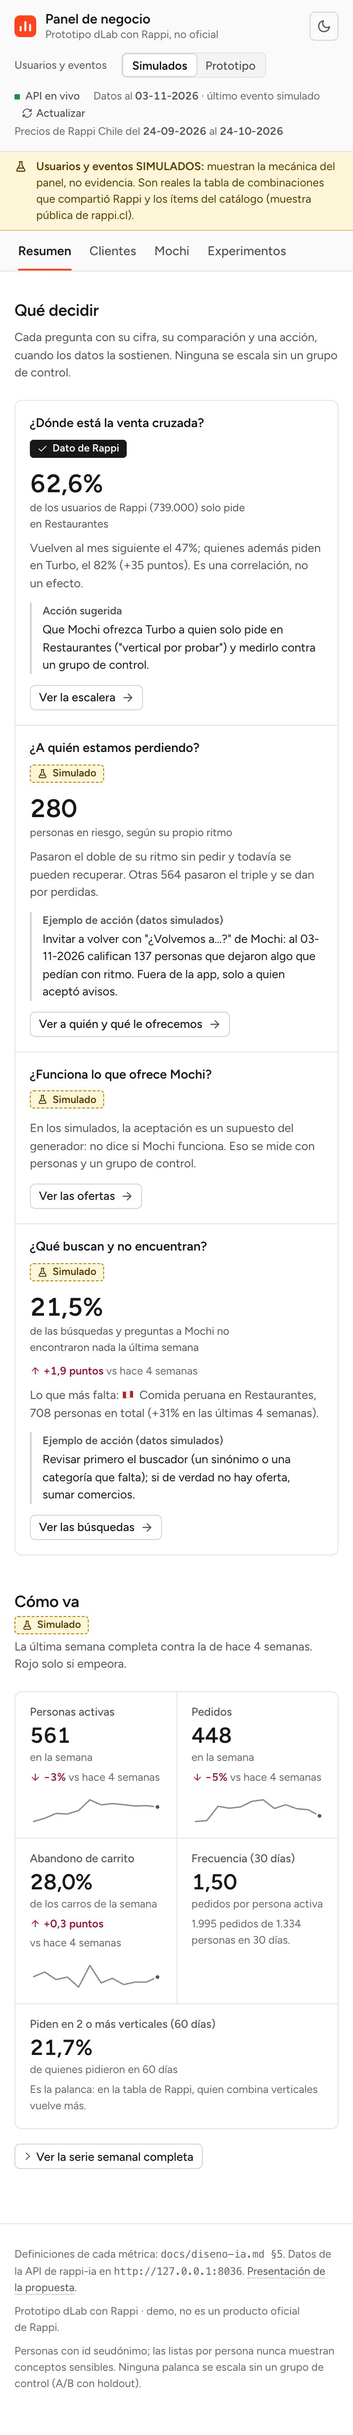
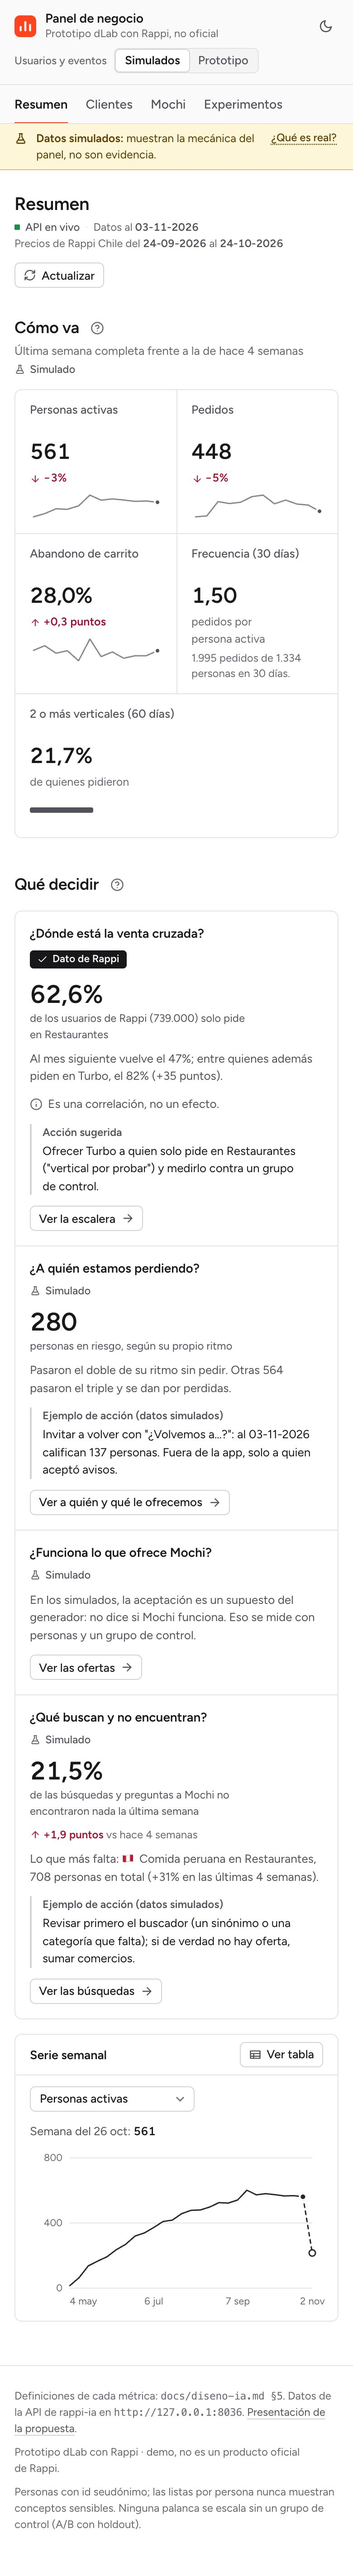
docs(panel): capturas, README y decisión de la segunda ronda
npm run screenshots captura cada vista y sus subpestañas (8 por ancho y
tema; los 5 nombres del README no cambian) y se regeneró contra una API
sobre rappi_staging, sin scroll horizontal. El README del panel explica
la barra lateral, la cabecera de página, las subpestañas (?seccion=),
la ayuda a demanda y los gráficos nuevos; docs/decisiones.md suma la
fila del 11-11-2026; instalacion, demo y diseno-ia dicen dónde quedó la
frase "uso del MVP, pocas personas: no es evidencia" (la franja).

El HTML suelto queda en 444 KB (meta: 445). make presentacion no se
corrió: falta la muestra de la app (prototipo-app/src/api/offline/
snapshot.json); los selectores nuevos del capítulo 9 del recorrido se
probaron contra el panel en el servidor de desarrollo.

diff --git a/dashboard-empresa/README.md b/dashboard-empresa/README.md
@@ -58,7 +58,7 @@ La URL de la API se cambia con `VITE_API_URL`, por ejemplo `VITE_API_URL=http://
 | `npm run format:check` | Revisa el formato con Prettier sin cambiar nada (lo que corre el CI); `npm run format` lo arregla |
 | `npm run build` | Build de producción en `dist/` |
 | `npm run fixtures` | Guarda en el repo las respuestas simuladas de la última foto de `npm run panel:snapshot`: las de `src/fixtures/sin-conexion/` (lo que se ve sin la API) y los ejemplos `*.synthetic.json` de los tests. Correrlo tras `make synth` o una actualización del catálogo, después de grabar la foto. El uso del prototipo no se guarda (lleva lo que hizo la gente). Los ejemplos de ofertas por momento, a quién invitar a volver, búsquedas sin resultado, combinaciones, motor y experimentos de `src/fixtures/` no pasan por aquí: los escribe `make contract` en `rappi-ia/` (con su simulación chica) y el CI falla si quedan desactualizados |
-| `npm run screenshots` | Regenera `docs/screenshots/` con el Chrome instalado y un Vite propio en el 5198 (con `VITE_API_URL`, contra otra API: las de este README se tomaron el 10-11-2026 contra una API sobre `rappi_staging`) |
+| `npm run screenshots` | Regenera `docs/screenshots/` con el Chrome instalado y un Vite propio en el 5198 (con `VITE_API_URL`, contra otra API: las de este README se tomaron el 11-11-2026 contra una API sobre `rappi_staging`) |
 | `npm run panel:snapshot` | Graba las respuestas que lee el panel (solo GET) desde una API sobre una copia de la base, en `snapshot/panel.json` (ignorada en git). La usan `npm run fixtures` y el [panel en un solo HTML](#panel-en-un-solo-html) |
 | `npm run panel:html` | Arma `dist-html/Panel de negocio (demo).html`: el panel con esas respuestas adentro, que abre con doble clic sin la API ni internet |
 | `npm run panel:snapshot:fixtures` | Arma `snapshot/panel.json` desde los ejemplos de `src/fixtures/` (sin API), para probar `npm run panel:html` (lo hace el CI). No pisa una foto grabada |
@@ -67,9 +67,11 @@ Tests: las cifras vigentes están en [README.md#resultados](../README.md#resulta
 
 ## Vistas
 
-Arriba se elige la fuente de usuarios y eventos: **Simulados** o **Prototipo** (lo hecho en `prototipo-app`). La barra de arriba dice además de dónde salen los datos que se ven ("API en vivo", "Datos guardados", "API sin conexión" o "Foto grabada"), la fecha de corte y "Actualizar"; debajo, la franja de procedencia (simulados o prototipo) queda fija al bajar. Desde 1200 px las vistas van en una navegación lateral, con "En esta vista" para saltar a cada sección; más angosto, en una tira fija arriba. La vista y la fuente quedan en la URL (`?vista=clientes&fuente=prototipo`), así que un enlace abre exactamente lo mismo; una vista que no existe abre el Resumen. Ningún pedido cancelado cuenta en las cifras (migración 051). El encabezado dice de qué fecha son los precios ("Precios de Rappi Chile del … al …", el `catalogo` de `/catalog/home`; en el panel en un solo HTML, el de su foto); sin la API no lo muestra, porque los datos guardados no son del catálogo.
+Desde 1200 px, la barra lateral lleva la marca y el tema, la fuente de usuarios y eventos (**Simulados** o **Prototipo**, lo hecho en `prototipo-app`) y las cuatro vistas; más angosto, la marca y la fuente van arriba y las vistas en una tira fija. Sobre el contenido, una franja de una línea dice la fuente elegida y que no es evidencia, queda fija al bajar y explica a demanda qué es real ("¿Qué es real?"). Cada página tiene su título, de dónde salen los datos que se ven ("API en vivo", "Datos guardados", "API sin conexión" o "Foto grabada"), la fecha de corte y "Actualizar" y, si la vista tiene varias, sus subpestañas (una pregunta por pantalla). La vista, la fuente y la subpestaña quedan en la URL (`?vista=clientes&fuente=prototipo&seccion=pro`; la primera subpestaña no se escribe), así que un enlace abre exactamente lo mismo; una vista o subpestaña que no existe abre la primera. Las definiciones van a demanda (el botón ⓘ junto a cada título, que se cierra con Escape o al tocar fuera); lo que siempre se ve es la cifra, su unidad y su salvedad en una línea. Ningún pedido cancelado cuenta en las cifras (migración 051). El encabezado dice de qué fecha son los precios ("Precios de Rappi Chile del … al …", el `catalogo` de `/catalog/home`; en el panel en un solo HTML, el de su foto); sin la API no lo muestra, porque los datos guardados no son del catálogo.
 
 ### 1. Resumen
+
+Sin subpestañas: primero cómo va, después qué decidir, con la serie semanal al lado.
 
 **Qué decidir:** las cuatro preguntas como una lista, una fila por pregunta. Cada una trae su procedencia, la cifra que se mira primero, su contexto (una comparación o la tendencia de 4 semanas), una acción sugerida que sale de los datos y el enlace a su detalle:
 
@@ -79,36 +81,36 @@ Arriba se elige la fuente de usuarios y eventos: **Simulados** o **Prototipo** (
 - Con la fuente del prototipo la acción se llama "Para revisar en el MVP": esos datos no son evidencia.
 - **Búsquedas:** el % sin resultado de la última semana contra 4 semanas antes y lo que más falta. Acción: la que da la API para esa demanda; si es "sumar comercios", primero revisar el buscador (un sinónimo o una categoría que falta).
 
-**Cómo va:** cinco indicadores en una tira. Personas activas, pedidos y abandono de carrito con su cambio contra 4 semanas antes y la tendencia de 12 semanas (la línea aparece desde 5 semanas completas); frecuencia (30 días) y el % que pide en 2 o más verticales (60 días), con lo que los explica. La serie semanal completa queda a un clic. Las diferencias de tasas van en "puntos" (puntos porcentuales).
+**Cómo va:** cinco indicadores en una tira de igual altura. Personas activas, pedidos y abandono de carrito con su cambio contra 4 semanas antes y la tendencia de 12 semanas (la línea aparece desde 5 semanas completas); frecuencia (30 días) y el % que pide en 2 o más verticales (60 días), con lo que los explica. **Serie semanal:** las 27 semanas en una línea, un indicador a la vez (Personas activas, Pedidos, Abandono de carrito o Búsquedas sin resultado), con la semana parcial punteada; *Ver tabla* muestra la serie completa. Las diferencias de tasas van en "puntos" (puntos porcentuales).
 
-![Resumen: qué decidir y cómo va](docs/screenshots/1-resumen-escritorio-claro.jpg)
+![Resumen: cómo va, la serie semanal y qué decidir](docs/screenshots/1-resumen-escritorio-claro.jpg)
 
 *Datos simulados, salvo la tarjeta de venta cruzada (dato de Rappi): muestran la mecánica, no evidencia.*
 
 ### 2. Retención y venta cruzada
 
-Para la gerencia.
+Para la gerencia. Tres subpestañas: Venta cruzada (`seccion` sin valor), Pro y sin Pro (`pro`) y En riesgo (`perdiendo`).
 
-- **Dónde está la venta cruzada:** la tabla de Rappi como gráfico de pesas. Cada fila es una combinación (Solo Restaurantes, Restaurantes + Turbo…), con la parte de los usuarios que está ahí, cuántos vuelven al mes siguiente, cuántos vuelven entre quienes además usan el grupo siguiente que más retiene, la diferencia en puntos y los pedidos por usuario de una y otra. *Ver tabla* muestra la tabla completa de Rappi con su total. Es una correlación, no un efecto: quien pide mucho usa más verticales y además vuelve más.
-- **Pro y sin Pro** (desde el 26-10): las personas con pedidos de cada grupo (`app_users.pro`, de `/analytics/pro`): pedidos de 30 días y por persona, cuántas volvieron a comprar, cuántas combinan verticales (60 días) y la retención de los días 61 a 120; un grupo con menos de 20 personas no se muestra. Es una comparación, no un efecto, y en los simulados la marca Pro es un supuesto del generador que sigue a su combinación de verticales: el panel lo dice. En la foto sin conexión (04-11) están los dos grupos, Pro (887 personas con pedidos) y sin Pro (1.404), todos simulados.
+- **Dónde está la venta cruzada:** las cifras de toda la tabla de Rappi (usuarios, cuántos vuelven al mes siguiente y pedidos por usuario) y la tabla como gráfico de pesas. Cada fila es una combinación (Solo Restaurantes, Restaurantes + Turbo…), con la parte de los usuarios que está ahí, cuántos vuelven al mes siguiente, cuántos vuelven entre quienes además usan el grupo siguiente que más retiene, la diferencia en puntos y los pedidos por usuario de una y otra. *Ver tabla* muestra la tabla completa de Rappi con su total. Debajo, barras con el % de los usuarios y el % de los pedidos de cada combinación. Es una correlación, no un efecto: quien pide mucho usa más verticales y además vuelve más.
+- **Pro y sin Pro** (desde el 26-10): las personas con pedidos de cada grupo (`app_users.pro`, de `/analytics/pro`): pedidos de 30 días y por persona, cuántas volvieron a comprar, cuántas combinan verticales (60 días) y la retención de los días 61 a 120; un grupo con menos de 20 personas no se muestra. Cuatro facetas de barras (cada una con su escala desde 0) y su tabla. Es una comparación, no un efecto, y en los simulados la marca Pro es un supuesto del generador que sigue a su combinación de verticales: el panel lo dice. En la foto sin conexión (04-11) están los dos grupos, Pro (887 personas con pedidos) y sin Pro (1.404), todos simulados.
 - **A quién estamos perdiendo:** en riesgo (el doble de su ritmo sin pedir, mínimo 21 días), perdidas (el triple, mínimo 45), cuántas califican para "¿Volvemos a…?" (por un concepto o por una vertical que dejaron) y a cuántas les toca "¿Repetimos?". Debajo, las personas que entrega la API (hasta 100, primero las en riesgo más atrasadas) agrupadas por lo que más pedían, con cuántas aceptan avisos; la lista con id seudónimo queda a un clic. El concepto top nunca es sensible.
 
-![Retención y venta cruzada: la escalera de Rappi y a quién estamos perdiendo](docs/screenshots/2-clientes-escritorio-claro.jpg)
+![Retención y venta cruzada, subpestaña Venta cruzada: las cifras de la tabla de Rappi, la escalera y las barras de usuarios y pedidos](docs/screenshots/2-clientes-escritorio-claro.jpg)
 
-*La escalera es el dato de Rappi; lo demás, simulado.*
+*Venta cruzada es toda dato de Rappi; Pro y sin Pro y En riesgo, simulados.*
 
 ### 3. Mochi y búsquedas
 
-Para RappiAds.
+Para RappiAds. Tres subpestañas: Ofertas (`seccion` sin valor, con "¿Mochi molesta?" debajo), Listas y embudo (`listas`) y Búsquedas (`busquedas`).
 
-- **Lo que ofrece Mochi:** ofertas mostradas, la tasa de aceptación y cuánto de lo aceptado entre verticales llega a pedido. Debajo, a todo el ancho, las **ofertas por momento**, cada una con una línea que dice dónde se hace (en un plan, con el carro armado, antes de pagar, para el próximo pedido, cuando una búsqueda no encontró nada, para probar otro vertical, en la recompra, al volver a pedir, en un perfil de gusto, mientras llega otro pedido (OnTop de Turbo), al preguntarle o en "Para ti") y, por momento, las rechazadas ("Ahora no" en el Carro; "Después" en Vertical por probar, Recompra y Volver a pedir; "—" en los momentos sin ese botón; la oferta que se fue sola del globo no es un rechazo), las abiertas (la vertical abierta desde el botón de la oferta, "Ver …" o "Abrir …", en Carro, Vertical por probar, Sin resultado y Perfil de gusto: no es una aceptación) y los "¿Por qué?" abiertos; lado a lado, las **sugerencias entre verticales** que más se muestran ("212 de 944" aceptadas, la tasa y cuántas llegaron a pedido; incluyen lo que la persona pidió al preguntarle, y Mochi no propone alcohol por su cuenta), los **servicios sin catálogo** (RappiTravel y RappiFavor: ofrecidos, abiertos y el gancho del catálogo aceptado), y a todo el ancho **el motor contra una regla simple** (próximo vertical contra el orden fijo, compra cruzada contra lo más pedido y el paso de la escalera contra la vertical que más se suma, en el tramo de prueba de su evaluación por fechas). Los pedidos que Mochi hizo solo, con el permiso de "Pedir por mí", van en una línea aparte: no son ofertas aceptadas. Aceptada: la oferta se agregó al carro (también en la recompra, aunque su botón sea "Ver producto"). La tasa aparece desde 10 mostradas, o desde 10 aceptadas para lo que llega a pedido; antes, solo las cuentas. El simulador no guarda el momento de la oferta: con los simulados el panel lo dice en una caja en su lugar.
+- **Lo que ofrece Mochi:** ofertas mostradas, la tasa de aceptación y cuánto de lo aceptado entre verticales llega a pedido. Debajo, a todo el ancho, las **ofertas por momento**, cada una con una línea que dice dónde se hace (en un plan, con el carro armado, antes de pagar, para el próximo pedido, cuando una búsqueda no encontró nada, para probar otro vertical, en la recompra, al volver a pedir, en un perfil de gusto, mientras llega otro pedido (OnTop de Turbo), al preguntarle o en "Para ti") y, por momento, las rechazadas ("Ahora no" en el Carro; "Después" en Vertical por probar, Recompra y Volver a pedir; "—" en los momentos sin ese botón; la oferta que se fue sola del globo no es un rechazo), las abiertas (la vertical abierta desde el botón de la oferta, "Ver …" o "Abrir …", en Carro, Vertical por probar, Sin resultado y Perfil de gusto: no es una aceptación) y los "¿Por qué?" abiertos; lado a lado, las **sugerencias entre verticales** que más se muestran ("212 de 944" aceptadas, la tasa y cuántas llegaron a pedido; incluyen lo que la persona pidió al preguntarle, y Mochi no propone alcohol por su cuenta), los **servicios sin catálogo** (RappiTravel y RappiFavor: ofrecidos, abiertos y el gancho del catálogo aceptado), y a todo el ancho **el motor contra una regla simple** (próximo vertical contra el orden fijo, compra cruzada contra lo más pedido y el paso de la escalera contra la vertical que más se suma, en el tramo de prueba de su evaluación por fechas). Los pedidos que Mochi hizo solo, con el permiso de "Pedir por mí", van en una línea aparte: no son ofertas aceptadas. Aceptada: la oferta se agregó al carro (también en la recompra, aunque su botón sea "Ver producto"). La tasa aparece desde 10 mostradas, o desde 10 aceptadas para lo que llega a pedido; antes, solo las cuentas. El simulador no guarda el momento de la oferta: con los simulados el panel lo dice en una línea en su lugar.
 - **¿Mochi molesta?** (`/analytics/presencia`, últimos 30 días, como las personas activas del Resumen): cuántas personas activas tienen a Mochi oculto (su último cambio, `agent_visibility`, fue ocultarlo) y qué % son, cuántas veces lo ocultaron, cuántas lo trajeron de vuelta en Cuenta y cuántas veces explicó por qué movió los accesos de la Home (`vertical_reorder_shown`), a cuántas personas. Si muchas lo ocultan, Mochi molesta: hay que revisar cada cuánto habla y propone. La app no anota "¿Por qué?" ni "Entendido" del globo, así que no se cuentan. El simulador no genera estos eventos: con los simulados, un estado vacío que lo dice.
-- **Qué se ve y qué se toca:** de lo que cada lista de la app dejó a la vista (al menos la mitad en pantalla), el CTR por posición (`/analytics/ctr-posicion`) y el embudo por sesión: vio una lista → tocó algo → agregó al carro → pidió (`/analytics/embudo-sesion`). El primer lugar se toca más también por estar primero: es el sesgo que hay que descontar antes de comparar órdenes. Sale de las impresiones registradas (migraciones 047 y 048): sin ellas, la tabla queda vacía.
+- **Qué se ve y qué se toca:** de lo que cada lista de la app dejó a la vista (al menos la mitad en pantalla), el CTR por posición (`/analytics/ctr-posicion`) y el embudo por sesión: vio una lista → tocó algo → agregó al carro → pidió (`/analytics/embudo-sesion`), los dos en barras con su tabla. El primer lugar se toca más también por estar primero: es el sesgo que hay que descontar antes de comparar órdenes. Sale de las impresiones registradas (migraciones 047 y 048): sin ellas, la tabla queda vacía.
 - **Qué buscan y no encuentran:** la demanda no satisfecha agrupada por concepto y vertical (5 o más personas), con su crecimiento, dónde existe y la acción sugerida; si ninguna llega a ese mínimo (lo normal con el prototipo), las búsquedas sin resultado por vertical y concepto, nunca con el texto que escribió cada persona. Junto a las cuentas, el **abandono de búsqueda** (`abandono` en `/analytics/unmet`): las búsquedas que no terminaron en ningún toque ni en otra búsqueda con toque en 2 minutos, con cuántas se salvaron al reformularlas; el % aparece desde 10 búsquedas. Al lado, **lo que sube** (señales de interés, 4 semanas contra las 4 anteriores, con "sin oferta" si además es demanda no satisfecha) y **poco surtido** (más personas buscando que ítems en la muestra pública).
 
-`make mvp-check` abre esta vista con la fuente del prototipo (puerto 5185) y comprueba que "Ofertas del agente por momento" muestra lo que dejaron las revisiones anteriores (qué revisa, en [docs/instalacion.md](../docs/instalacion.md#5-el-mvp)).
+`make mvp-check` abre esta vista (la subpestaña Ofertas) con la fuente del prototipo (puerto 5185) y comprueba que "Ofertas del agente por momento" muestra lo que dejaron las revisiones anteriores (qué revisa, en [docs/instalacion.md](../docs/instalacion.md#5-el-mvp)).
 
-![Mochi y búsquedas: ofertas por momento, sugerencias entre verticales, servicios, motor y demanda no satisfecha](docs/screenshots/3-mochi-escritorio-claro.jpg)
+![Mochi y búsquedas, subpestaña Ofertas: las cifras, sugerencias entre verticales, servicios, el motor y si Mochi molesta](docs/screenshots/3-mochi-escritorio-claro.jpg)
 
 *Datos simulados: muestran la mecánica, no evidencia.*
 
@@ -125,7 +127,7 @@ Todas las vistas tienen versión móvil (sin scroll horizontal; las tablas pasan
 
 <p>
   <img src="docs/screenshots/1-resumen-movil-claro.jpg" alt="Resumen en móvil" width="260" />
-  <img src="docs/screenshots/2-clientes-escritorio-oscuro.jpg" alt="Retención y venta cruzada en tema oscuro" width="520" />
+  <img src="docs/screenshots/2-clientes-escritorio-oscuro.jpg" alt="Retención y venta cruzada (Venta cruzada) en tema oscuro" width="520" />
 </p>
 
 *Resumen en móvil y Retención y venta cruzada en tema oscuro.*
@@ -149,27 +151,27 @@ PANEL_HTML_COPY="$HOME/Desktop/Panel de negocio (demo).html" npm run panel:html
 
 Se ve todo lo del panel con las dos fuentes, los rótulos de procedencia de siempre y un aviso fijo "Foto sin conexión" con la fecha y la base de donde salió. Una foto grabada antes del 31-10 no trae los experimentos: la pestaña lo dice hasta la próxima `npm run panel:snapshot`.
 
-**"Ver cómo funciona".** Un botón abajo a la derecha abre un recorrido corto de una persona nueva en el prototipo: Mochi le ofrece el kit "Carrete" (momento "Plan"), lo acepta, paga el pedido, busca algo que no hay y oculta a Mochi. Cada paso suma ese evento a las respuestas grabadas de la fuente del prototipo, en memoria (`src/demo/tour.js`), y lleva a la sección que cambia: "Plan" suma una mostrada y después una aceptada, la frecuencia de 30 días cuenta el pedido, "Qué buscan y no encuentran" suma una búsqueda sin resultado y "¿Mochi molesta?" suma una persona que lo ocultó. La tarjeta dice siempre "Demostración: eventos de ejemplo sobre la foto grabada, no son datos reales", y al cerrarla todo vuelve a la foto. Mientras dura, cada sección del prototipo dice además "con eventos de ejemplo de la demostración: no son datos reales". Solo entra en este armado (se decide por el modo `panel-html`, como `VITE_OFFLINE_DEMO` en la app): el panel con la API no la trae. Escape la cierra.
+**"Ver cómo funciona".** Un botón abajo a la derecha abre un recorrido corto de una persona nueva en el prototipo: Mochi le ofrece el kit "Carrete" (momento "Plan"), lo acepta, paga el pedido, busca algo que no hay y oculta a Mochi. Cada paso suma ese evento a las respuestas grabadas de la fuente del prototipo, en memoria (`src/demo/tour.js`), y lleva a la sección que cambia: "Plan" suma una mostrada y después una aceptada, la frecuencia de 30 días cuenta el pedido, "Qué buscan y no encuentran" suma una búsqueda sin resultado y "¿Mochi molesta?" suma una persona que lo ocultó. La tarjeta dice siempre "Demostración: eventos de ejemplo sobre la foto grabada, no son datos reales", y al cerrarla todo vuelve a la foto. Mientras dura, la franja suma la fila "Demostración: las cifras traen eventos de ejemplo, no son datos reales." y cada sección del prototipo dice además "con eventos de ejemplo de la demostración: no son datos reales". Solo entra en este armado (se decide por el modo `panel-html`, como `VITE_OFFLINE_DEMO` en la app): el panel con la API no la trae. Escape la cierra.
 
 No se puede: actualizar (no hay API; el botón no aparece), ver la presentación de la propuesta (no viaja en el archivo) ni ver nada más nuevo que la foto.
 
 ## Cómo se lee
 
 - **Cada número con su contexto.** Una comparación (la combinación siguiente, las perdidas, la regla simple), la tendencia de 4 semanas o lo que lo explica. Las tasas aparecen desde 10 casos en su denominador; antes, solo las cuentas. Rojo solo para lo que empeora y verde para lo que mejora, siempre con flecha y texto; la demanda que crece va en gris, porque no es un resultado bueno ni malo.
-- **Color con significado.** El naranja Rappi para magnitud y para lo que se propone; el gris para el contexto (en la escalera, la retención de hoy), con contraste de 3:1 con el fondo y separable del naranja con daltonismo; el ámbar rayado marca lo simulado.
-- **Todo valor se puede leer sin el gráfico.** La escalera tiene su tabla (*Ver tabla*) y su descripción para lectores de pantalla; la serie semanal, su tabla.
-- **Accesibilidad.** Pestañas accesibles (← → y ↑ ↓, Inicio y Fin; en el teléfono, con nombres cortos: Resumen, Clientes, Mochi y Experimentos); los enlaces del Resumen y los de "En esta vista" llevan el foco al título de la sección; bajo 900 px las tablas pasan a tarjetas; respeto de `prefers-reduced-motion`.
+- **Color con significado.** El naranja Rappi, racionado: la marca, la vista activa y el punto "después" de la escalera. Las barras y la línea de los gráficos van en dos grises (3:1 o más con el fondo y entre sí, en los dos temas); el ámbar es solo la franja de lo simulado. Lo simulado y lo del prototipo llevan un rótulo gris en su sección; "Dato de Rappi" va sólido, así lo real es lo único que resalta.
+- **Todo valor se puede leer sin el gráfico.** Cada gráfico tiene su tabla (*Ver tabla*): la de la serie semanal, las barras y las facetas está siempre en el DOM para el lector de pantalla; la escalera, su descripción por fila.
+- **Accesibilidad.** Pestañas accesibles (← → y ↑ ↓, Inicio y Fin; en el teléfono, con nombres cortos: Resumen, Clientes, Mochi y Experimentos); las subpestañas son botones con `aria-current` (el foco queda en el botón); los enlaces del Resumen abren la subpestaña y llevan el foco al título de la sección; las ayudas se abren con Enter y se cierran con Escape; bajo 900 px las tablas pasan a tarjetas; respeto de `prefers-reduced-motion`.
 
 ## Estructura
 
 ```text
 src/
-├── App.jsx                 pestañas, fuente, aviso de procedencia, enlaces a una sección
+├── App.jsx                 vistas y subpestañas, fuente, franja de procedencia, enlaces a una sección
 ├── presentacion.js         página de presentación de la propuesta (con presentacion.html y public/presentacion/)
 ├── lib/                    api.js (API, respaldo y foto), metrics.js (lo que lee el panel), agentName.js (el nombre visible del agente), format.js (es-CL), labels.js, hooks
-├── components/             tabla, panel, insignias, cifras, estados vacío/carga/error
-│   ├── charts/             chispa de tendencia (SVG propio, sin librerías)
-│   └── shell/              encabezado, selector de fuente, tema, pestañas y "En esta vista"
+├── components/             tabla, panel, ayuda (Help), salvedad (Caveat), insignias, cifras, estados vacío/carga/error
+│   ├── charts/             chispa, LineChart (serie semanal) y BarRows (barras), sin librerías
+│   └── shell/              marca, cabecera de página, selector de fuente, tema, vistas y subpestañas
 ├── views/
 │   ├── overview/           Resumen: las 4 decisiones (decisions.js) y cómo va (weekly.js)
 │   ├── customers/          Retención y venta cruzada: la escalera (ladder.js) y el rescate (audiences.js)

diff --git a/docs/decisiones.md b/docs/decisiones.md
@@ -251,6 +251,7 @@ Resumen de lo que rige hoy (05-11-2026); el detalle y el porqué están en las f
 | 05-11-2026 | **λ de la compra cruzada solo sube de 0 si gana al menos 5 aciertos en validación** (`LAMBDA_MIN_GAIN_HITS` en `motor/evaluate.py`): `rappi-ia motor` cuenta los aciertos de la mezcla con cada λ de la grilla y uno mayor reemplaza al elegido solo si lo supera en 5 o más; en un empate o casi empate queda el menor. Con los simulados del 04-11 (503 personas en validación, 1.509 recomendaciones), λ 0 y 0,5 aciertan 201 y λ 1, 2 y 4, 203: λ pasa de 1 a 0. | Antes ganaba cualquier mejora: 2 aciertos de 1.509 (precisión@3 0,1332 contra 0,1345) encendían la variante "Para tu pedido de …", que solo sale con λ > 0, así que la oferta de la demo cambiaba por ruido. Costo: esa variante aparece menos; con los simulados actuales no aparece y sale "Lo más pedido en …". |
 | 05-11-2026 | **El panel no pinta una diferencia que no es concluyente** (`dashboard-empresa/src/views/mochi/`: `motor.js` y `MotorCheck.jsx`; `motor/evaluate.py`: `_step`; sin migración). El paso de la escalera informa `solo_paso`, `solo_base` y `p_mcnemar` (McNemar exacto bilateral, en el tramo de prueba; no en validación, donde se eligen los pesos). En "El motor contra una regla simple" cada fila dice su n, y la diferencia del paso cuenta como ruido si p ≥ 0,05 o, en las corridas sin p, si mide menos de 100 personas: queda neutra y dice "no es concluyente". Una diferencia con juicio dice "(mejora)" o "(empeora)" en texto para el lector de pantalla. | La nota atribuía a todas las filas las 505 personas del próximo vertical, pero el paso se mide con 74 y su −5,4 salía en rojo: con 5 contra 9 pares discordantes (p = 0,42) es ruido. El color solo no le dice nada a un lector de pantalla ni a quien no distingue rojo de verde. |
 | 10-11-2026 | **El panel cambia de lenguaje visual, sin tocar sus textos, sus cifras ni la API** (`dashboard-empresa/src/styles/tokens.css` y los CSS de cada vista). **(1)** Lenguaje propio con tokens, sin Carbon ni Fluent: se toman prestadas la densidad de tabla de Carbon (filas de 36 px), el "entorno de datos" fijo de Stripe y la navegación lateral de Linear. **(2)** Un solo acento, el naranja-rojo de Rappi, racionado: marca, vista activa, el punto "después" de la escalera, el foco y el resaltado de la demostración. Links, botones, barras de tabla y rótulos de acción pasan a neutros, así el carmesí de "empeora" queda como el único rojo con juicio. **(3)** La procedencia sin rayado y siempre a la vista: la franja de simulados o prototipo queda fija bajo la barra superior (desde 1200 px), y la insignia de cada bloque se distingue por texto, ícono y tipo de borde (sólido, punteado o relleno), no solo por color. La barra dice además de dónde salen los datos ("API en vivo", "Datos guardados", "API sin conexión" o "Foto grabada"). **(4)** Sin filtro de fechas ni comparación de periodos: `GET /analytics/{name}` solo acepta `source` y las ventanas las fija el backend; una comparación armada en el cliente sería otra definición de "cómo va" que la de `diseno-ia.md` §5. **(5)** Sale IBM Plex Mono (unos 93 KB para 4 usos); el panel en un solo HTML baja de 543 a 425 KB. | Se leía como hecho con IA: títulos de 44 px con reglas negras, cifras de 48 px en tarjetas 2x2, rojo en todo lo que se podía tocar, rayado que obligaba a ponerle fondo al texto y la misma insignia repetida en la barra de pestañas. La tabla "Por momento" (7 columnas) quedaba en media columna y se cortaba; ahora va a todo el ancho. Un sistema externo sumaba cientos de KB al HTML suelto, obligaba a pisar casi todos sus tokens y partía la presentación, que comparte tokens y estilos con el panel. |
+| 11-11-2026 | **El panel pasa a subpestañas por pregunta (`?seccion=`), ayuda a demanda y gráficos propios sin librería; la procedencia queda en una franja fija, un rótulo discreto por sección y salvedades de una línea** (`dashboard-empresa/src/`: `App.jsx`, `lib/useUrlState.js`, `components/` y las cuatro vistas). **(1)** Retención y venta cruzada y Mochi y búsquedas se parten en tres subpestañas cada una; la primera no se escribe en la URL, así los enlaces de antes abren lo mismo. "¿Mochi molesta?" vive bajo Ofertas. **(2)** La barra lateral lleva la marca, la fuente y las vistas; cada página, su título, el estado de los datos y "Actualizar". **(3)** Lo que siempre se ve es la cifra, su unidad y su salvedad; las definiciones van tras un botón ⓘ (un `<details>`, sin librería). **(4)** La serie semanal pasa a una línea en SVG y las comparaciones (usuarios y pedidos por combinación, Pro y sin Pro, CTR por posición, embudo) a barras en CSS, cada una con su tabla siempre en el DOM; sin Recharts ni uPlot. **(5)** La franja es el único elemento ámbar; los rótulos de simulado y prototipo pasan a texto gris y "Dato de Rappi" sigue sólido. El HTML suelto queda en 444 KB (antes 425). | Cada vista era una columna larga (Mochi medía unos 3.400 px) con párrafos de 40 a 60 palabras bajo cada título y la misma procedencia repetida hasta cuatro veces; la serie semanal solo existía como tabla escondida. Una librería de gráficos sumaba más de 100 KB gzip al HTML suelto para dos formas (una línea y barras) que ya se dibujaban con lo que había. |
 
 ## Operación
 

diff --git a/docs/instalacion.md b/docs/instalacion.md
@@ -142,7 +142,7 @@ Ctrl-C detiene los tres; si uno se cae solo, detiene el resto. No descarga nada 
 5. **Refinar sin chat:** en el buscador con Mochi, "¿tienen pizza?" y, debajo de la respuesta, el chip "Más barato": la tarjeta dice "Pediste '¿tienen pizza?' · 'más barato'", "Lo más barato de…" y la pizza más barata del catálogo de prueba va primero. Revisa que el buscador sea el único campo de texto del panel y toca el chip "Otra opción": ya vio las dos pizzas, y Mochi dice "No encontré otras opciones de…" en vez de repetirlas.
 6. **Home dinámica:** una persona nueva ve los 6 accesos en el orden fijo, con Lealtad y Beneficios Pro al final y sin el texto "Ordenadas según lo que más usas"; toca "Rappi Mall" tres veces, volviendo a la Home cada vez, espera hasta 30 s a que la API acepte los toques (`vertical_open`; al volver a la Home la app los manda y vuelve a pedir el orden) y, sin recargar, Rappi Mall queda primero y el texto aparece.
 7. **Combinación:** una persona nueva pide en Restaurantes (Home → Restaurantes → el primer restaurante → agregar un plato → pagar), la app se recarga y Mochi, al tocarlo, propone **Turbo** (el siguiente peldaño de la escalera desde Restaurantes, con la tabla de Rappi como punto de partida) con su "¿Por qué?", que muestra la razón. Solo mira la vertical y que haya una razón: el texto exacto depende de lo que haya aprendido el motor.
-8. **Panel:** abierto en "Mochi y búsquedas" con la fuente del prototipo, la tabla "Ofertas del agente por momento" muestra "Plan" con al menos una oferta aceptada (la del kit) y el rótulo "uso del MVP, pocas personas: no es evidencia", sin el aviso de datos guardados. Espera hasta 30 s a que la API ya cuente los eventos de las revisiones anteriores (la app los manda en lotes cada 5 s).
+8. **Panel:** abierto en "Mochi y búsquedas" con la fuente del prototipo, la tabla "Ofertas del agente por momento" muestra "Plan" con al menos una oferta aceptada (la del kit) y el aviso "uso del MVP, pocas personas: no es evidencia" en la franja de procedencia, sin el aviso de datos guardados. Espera hasta 30 s a que la API ya cuente los eventos de las revisiones anteriores (la app los manda en lotes cada 5 s).
 9. **Sin API:** al detener la API, la app muestra "Sin conexión con Mochi".
 
 Mientras la API está en marcha, también falla ante un error de la página o de la consola o una respuesta 4xx/5xx (solo se ignoran las imágenes de prueba, que no existen). Termina con "MVP check: 9 de 9 bien" y no deja nada escuchando. Necesita libres los puertos 8010, 5184 y 5185. **Borra y vuelve a sembrar `rappi_ia_test`:** comparte con `make test` y `make contract` de `rappi-ia/` un candado (`.git/rappi-ia-test-db.lock`, en la carpeta común de git, así que también entre worktrees; fuera de git, `rappi-ia/.test-db.lock`), así que si otra prueba está corriendo sale de inmediato con "Otra prueba está usando rappi_ia_test"; si el proceso que lo tenía murió (kill -9, apagón), el siguiente comando toma el candado solo; si el aviso persiste y nada usa la base, el mensaje dice cómo borrarlo (`rm -rf` con la ruta del candado). Funciona igual en Linux (sin `lsof`; con `CHROME_PATH` o `PLAYWRIGHT_CHANNEL` se elige otro Chrome) y es el job `mvp-check` del CI (que sube capturas de las revisiones que fallen).

diff --git a/docs/demo.md b/docs/demo.md
@@ -72,7 +72,7 @@ Con `make mvp` el panel ya está arriba. Después de la demo de la app, ábrelo 
 1. **Lo que ofrece Mochi, por momento:** el kit de "Carrete" aparece en **Plan**, lo que propuso Mochi al tocarlo en **Vertical por probar** y, si usaste el carro o el checkout, en **Carro** y **Antes de pagar**, con lo mostrado y lo aceptado (una recompra aparecería en **Recompra** y una invitación a volver, en **Volver a pedir**). **Qué decir:** así se ve en qué momento la oferta de Mochi funciona; el porcentaje aparece recién con 10 mostradas, antes solo las cuentas.
 2. **Qué buscan y no encuentran:** una búsqueda sin resultado en la app (por ejemplo, algo que el catálogo no tiene) suma a su vertical; el concepto solo se suma si la pregunta pasó por el agente (las búsquedas de la app no llevan concepto). Nunca se ve lo que se escribió.
 
-**Qué decir:** cada sección lleva el rótulo "uso del MVP, pocas personas: no es evidencia". Son las pruebas de unas pocas personas, no una medición, y nunca se mezclan con los datos simulados. "Olvidar" en la app borra también los eventos de esa persona.
+**Qué decir:** la franja de arriba dice "uso del MVP, pocas personas: no es evidencia" y cada sección lleva el rótulo "Prototipo · no es evidencia". Son las pruebas de unas pocas personas, no una medición, y nunca se mezclan con los datos simulados. "Olvidar" en la app borra también los eventos de esa persona.
 
 Para cerrar, con la fuente **Simulados**, abre el **Resumen**: las cuatro preguntas para la gerencia y RappiAds, cada una con su cifra, su comparación y una acción sugerida, salvo **¿Funciona lo que ofrece Mochi?**: con los simulados no da cifra ni acción, porque la aceptación la fija el generador y no dice si Mochi funciona. **¿Dónde está la venta cruzada?** lleva a **Retención y venta cruzada**, donde la tabla de Rappi se ve como escalera: el 62,6 % de los usuarios solo pide en Restaurantes y vuelve el 47 % al mes siguiente; quienes además piden en Turbo, el 82 %. **Qué decir:** es el dato de Rappi y el punto de partida del motor, una correlación y no un efecto; el resto de las cifras son simuladas y muestran la mecánica, no evidencia.
 

diff --git a/docs/diseno-ia.md b/docs/diseno-ia.md
@@ -314,7 +314,7 @@ Ninguna palanca usa conceptos sensibles.
 
 **Límites honestos:**
 
-- **Uso del MVP.** Lo que se ve con la fuente `prototype` es lo que hicieron pocas personas probando la app: cada sección se rotula "uso del MVP, pocas personas: no es evidencia" y nunca se mezcla con lo simulado. "Olvidar" en la app borra los eventos de esa persona, así que también salen de estas cuentas.
+- **Uso del MVP.** Lo que se ve con la fuente `prototype` es lo que hicieron pocas personas probando la app: la franja fija del panel dice "uso del MVP, pocas personas: no es evidencia", cada sección se rotula "Prototipo · no es evidencia" y nunca se mezcla con lo simulado. "Olvidar" en la app borra los eventos de esa persona, así que también salen de estas cuentas.
 - Hoy los usuarios, eventos y pedidos son **simulados**: los genera `events/synth.py` (3.000 usuarios × 26 semanas, semilla 7; `source = 'synthetic'`), con supuestos explícitos. Por ejemplo, el generador asume que quien usa más verticales abandona menos. El panel **muestra la mecánica, no evidencia**: con datos reales, esa relación se mide y puede no cumplirse. Son reales la tabla de combinaciones que compartió Rappi (agregada, una correlación) y los ítems del catálogo.
 - Cualquier palanca se valida con un grupo de control (A/B con *holdout*) antes de escalar. El efecto causal de "Segunda vertical" se mide solo así, no con la comparación de retención.
 
